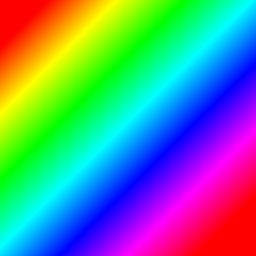
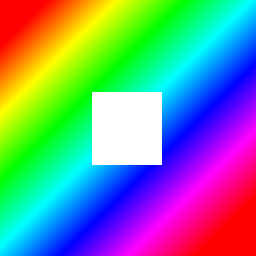
still freezes

Changed region(s): [[0.3438, 0.3438, 0.6562, 0.6562]]

diff --git a/src/main.rs b/src/main.rs
@@ -80,6 +80,32 @@ fn main() {
     let ctx = gl::Gl::load_with(|name| video_subsystem.gl_get_proc_address(name) as *const _);
     canvas.window().gl_set_context_to_current().unwrap();
 	
+	let pixels: Vec<u8> = vec![240; 256 * 256 * 4];
+	
+	let mut texture = 0;
+	unsafe {
+		ctx.GenTextures(1, &mut texture as _);
+
+		ctx.BindTexture(gl::TEXTURE_2D, texture);
+
+		ctx.TexParameteri(gl::TEXTURE_2D, gl::TEXTURE_MIN_FILTER, gl::LINEAR as _);
+		ctx.TexParameteri(gl::TEXTURE_2D, gl::TEXTURE_MAG_FILTER, gl::LINEAR as _);
+		ctx.TexParameteri(gl::TEXTURE_2D, gl::TEXTURE_WRAP_S, gl::CLAMP_TO_EDGE as _);
+		ctx.TexParameteri(gl::TEXTURE_2D, gl::TEXTURE_WRAP_T, gl::CLAMP_TO_EDGE as _);
+		println!("TexImage2D");
+		ctx.TexImage2D(
+			gl::TEXTURE_2D,
+			0,
+			gl::RGBA8 as _,
+			256 as _,
+			256 as _,
+			0,
+			gl::RGBA,
+			gl::UNSIGNED_BYTE,
+			pixels.as_ptr() as _,
+		);
+	}
+	
 	println!("pre make_texture_from_png");
 	//make_texture_from_png(&ctx, "images/texture0.png");
 	make_texture_from_png(&ctx, "images/256.png");
@@ -106,6 +132,11 @@ fn make_texture_from_png(ctx: &gl::Gl, filename: &str) -> gl::types::GLuint {
                     }
                 };
 
+				println!("e: {:?}", (gl::RGBA, gl::UNSIGNED_BYTE));
+				println!("g: {:?}", (external_format, data_type));
+				
+				println!("{:?}", pixels);
+				
                 unsafe {
                     ctx.GenTextures(1, &mut texture as _);
 
